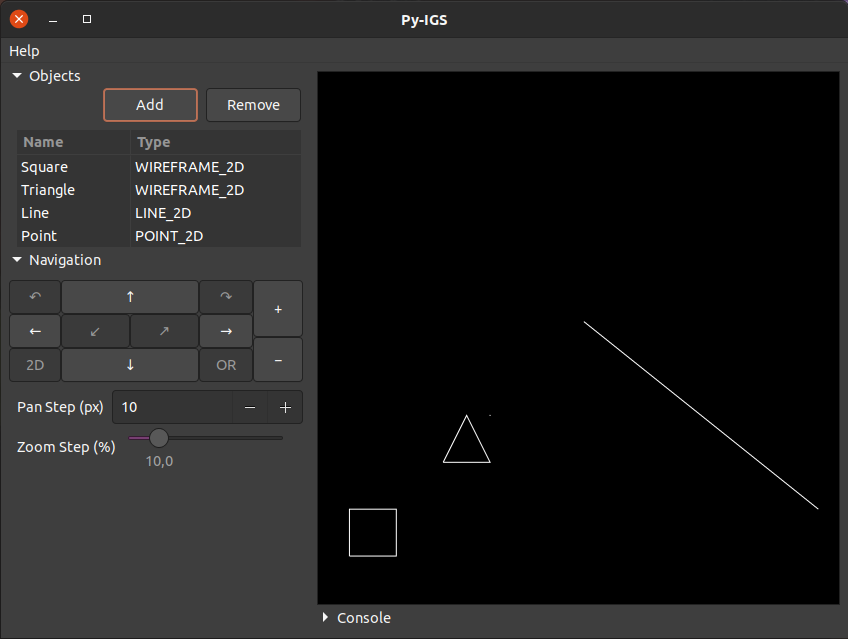
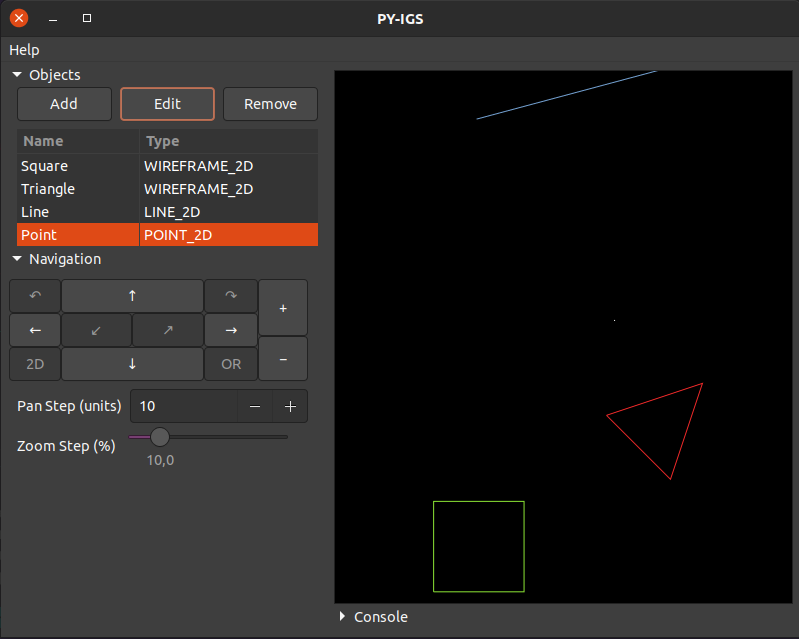
Improve Docs

diff --git a/README.md b/README.md
@@ -53,7 +53,7 @@ For zooming, you can use your mouse scroll or the `+` and `-` buttons on the nav
 
 To add an object, you need to click on the "Add" button located in the objects widget. A dialog will popup in your screen.
 
-In this dialog, insert the object name (unique in the scene) then insert the points coordinates of your object. You can select the type of the object by changing the active tab of the dialog.
+In this dialog, insert the object name (unique in the scene) then insert the points coordinates of your object. You can select the type of the object by changing the active tab of the dialog. The drawing color can also be defined in this dialog.
 
 After that, click on the save button. The object will appear on the world at the given coordinates.
 
@@ -64,12 +64,22 @@ After that, click on the save button. The object will appear on the world at the
     </p>
 </div>
 
+### Editing Objects (Transforms)
+Clicking in the edit button (in the objects widget) will open the editing dialog. In this window, you can define 3 transformations to apply on the object. They are: Translation, Rotation and Scaling. The translation will move the object over the world. The rotation will rotate the object around a given point that can be the world origin, the object center or a point that you specify. The scale will scale the objects in a "natural" way, i.e., based on the object center.
+
+<div align="center">
+    <img src="./doc/images/object-edit.png" alt="Editing an object" height="200" ></img>
+    <p>
+        <em>Editing an object</em>
+    </p>
+</div>
+
 ### Removing Objects
 
 Select an object of the object list and then press the remove button in the objects widget. The object will disappear.
 
 <div align="center">
-    <img src="./doc/images/objects-widget.png" alt="Objects Widget" height="200" ></img>
+    <img src="./doc/images/objects-widget.png" alt="Objects Widget" height="150" ></img>
     <p>
         <em>The objects widget</em>
     </p>
